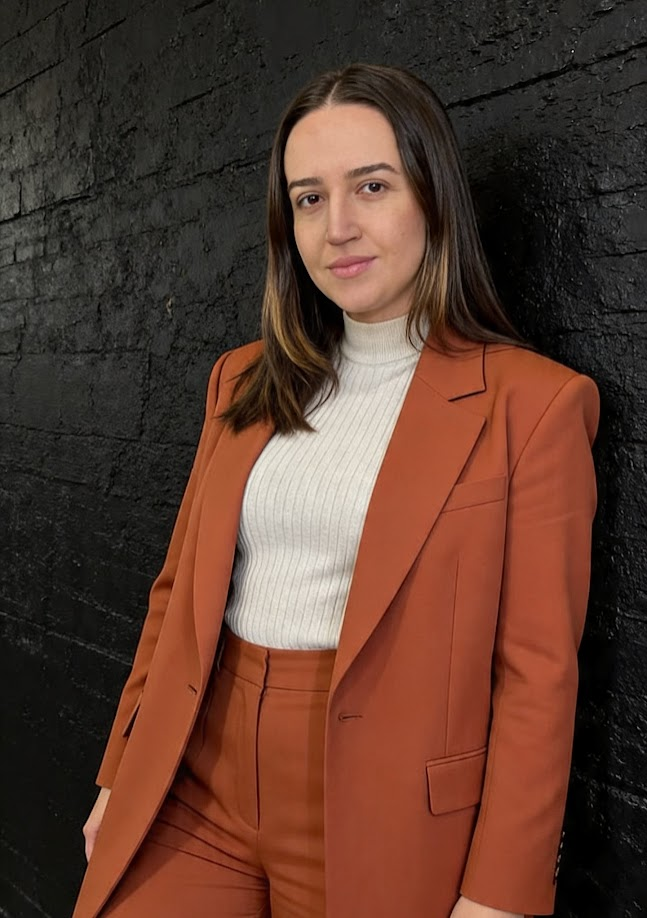
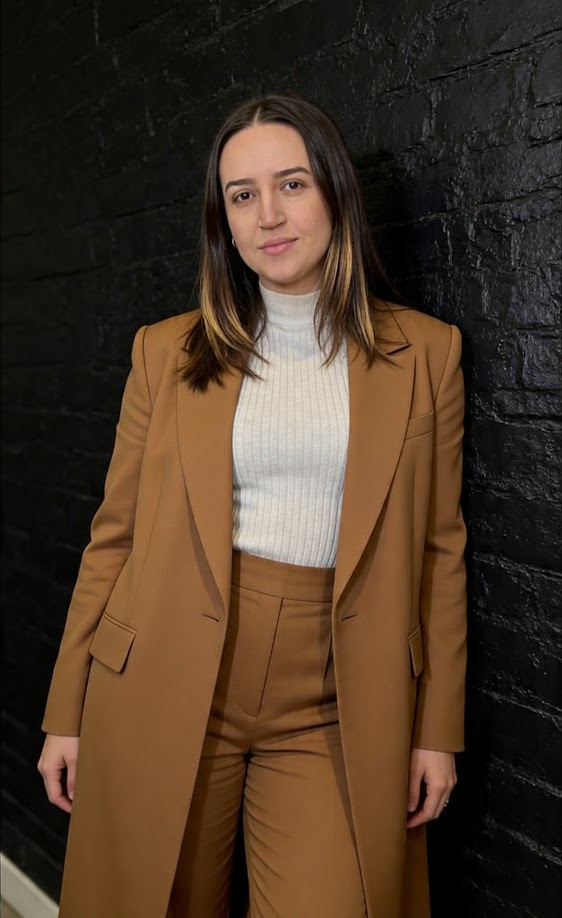
remove link to "Início" from multiple pages and update image styles in CSS

diff --git a/index.html b/index.html
@@ -1,38 +1,40 @@
 <!DOCTYPE html>
 <html lang="pt-br">
+
 <head>
-  <meta charset="UTF-8">
-  <meta name="viewport" content="width=device-width, initial-scale=1.0">
+    <meta charset="UTF-8">
+    <meta name="viewport" content="width=device-width, initial-scale=1.0">
 
-  <link rel="stylesheet" href="css/estilos.css">
+    <link rel="stylesheet" href="css/estilos.css">
 
-  <link rel="preconnect" href="https://fonts.gstatic.com" crossorigin>
-  <link href="https://fonts.googleapis.com/css2?family=Montserrat:wght@300;400;500;600;700&display=swap" rel="stylesheet">
+    <link rel="preconnect" href="https://fonts.gstatic.com" crossorigin>
+    <link href="https://fonts.googleapis.com/css2?family=Montserrat:wght@300;400;500;600;700&display=swap"
+        rel="stylesheet">
 
-  <title>Portfólio - Katheriny Kamili</title>
+    <title>Portfólio - Katheriny Kamili</title>
 </head>
+
 <body>
 
-  <a class="link-pular" href="#conteudo">Pular para o conteúdo</a>
+    <a class="link-pular" href="#conteudo">Pular para o conteúdo</a>
 
-  <!-- CABEÇALHO -->
-  <header>
-    <div class="container">
-      <nav>
+    <!-- CABEÇALHO -->
+    <header>
+        <div class="container">
+            <nav>
 
-        <a class="logo" href="index.html">
-          <span class="logo-letra">K</span>
-          <span class="logo-nome">Katheriny Kamili</span>
-        </a>
+                <a class="logo" href="index.html">
+                    <span class="logo-letra">K</span>
+                    <span class="logo-nome">Katheriny Kamili</span>
+                </a>
 
-        <a href="index.html">Início</a>
-        <a href="sobremim.html">Sobre</a>
-        <a href="index.html#habilidades">Habilidades</a>
-        <a href="produtos.html">Projetos</a>
-        <a href="contato.html" class="link-ativo">Contato</a>
-      </nav>
-    </div>
-  </header>
+                <a href="sobremim.html">Sobre</a>
+                <a href="index.html#habilidades">Habilidades</a>
+                <a href="produtos.html">Projetos</a>
+                <a href="contato.html" class="link-ativo">Contato</a>
+            </nav>
+        </div>
+    </header>
 
     <!-- CONTEÚDO PRINCIPAL -->
     <main id="conteudo">
@@ -41,68 +43,68 @@
         <section class="secao-destaque" id="inicio">
             <div class="container">
 
-                    <div class="destaque-texto">
-                        <span class="etiqueta">Portifólio profissional</span>
-                        <h1>Desenvolvedora Front-End</h1>
-                        <p class="descricao-principal">
-                            Olá, eu sou <strong>Katheriny Kamili</strong>. Estou em
-                            constante evolução na área de tecnologia, com foco em HTML,
-                            CSS e JavaScript, buscando oportunidades para crescer e
-                            contribuir com projetos criativos e bem estruturados.</p>
+                <div class="destaque-texto">
+                    <span class="etiqueta">Portifólio profissional</span>
+                    <h1>Desenvolvedora Front-End</h1>
+                    <p class="descricao-principal">
+                        Olá, eu sou <strong>Katheriny Kamili</strong>. Estou em
+                        constante evolução na área de tecnologia, com foco em HTML,
+                        CSS e JavaScript, buscando oportunidades para crescer e
+                        contribuir com projetos criativos e bem estruturados.</p>
 
 
-                        <!-- REDES SOCIAIS -->
+                    <!-- REDES SOCIAIS -->
 
-                        <div class="grupo-botoes">
-                            <a href="#projetos" class="botao botao-principal">Ver Projetos</a>
-                            <a href="https://github.com/katherinykamili" target="_blank" rel="noopener"
-                                class="botao botao-contorno">GitHub</a>
-                            <a href="https://www.linkedin.com/in/katheriny-kamili-corr%C3%AAa-rocha-4a4639176/"
-                                target="_blank" rel="noopener" class="botao botao-contorno">LinkedIn</a>
+                    <div class="grupo-botoes">
+                        <a href="produtos.html" class="botao botao-principal">Ver Projetos</a>
+                        <a href="https://github.com/katherinykamili" target="_blank" rel="noopener"
+                            class="botao botao-contorno">GitHub</a>
+                        <a href="https://www.linkedin.com/in/katheriny-kamili-corr%C3%AAa-rocha-4a4639176/"
+                            target="_blank" rel="noopener" class="botao botao-contorno">LinkedIn</a>
+                    </div>
+
+                    <div class="destaques-rapidos">
+                        <div class="cartao-destaque-rapido">
+                            <h3>Foco atual</h3>
+                            <p>HTML, CSS e JavaScript</p>
                         </div>
-
-                        <div class="destaques-rapidos">
-                            <div class="cartao-destaque-rapido">
-                                <h3>Foco atual</h3>
-                                <p>HTML, CSS e JavaScript</p>
-                            </div>
-                            <div class="cartao-destaque-rapido">
-                                <h3>Front-end</h3>
-                                <p>Em formação</p>
-                            </div>
-                            <div class="cartao-destaque-rapido">
-                                <h3>Blumenau, SC</h3>
-                                <p>Brasil</p>
-                            </div>
+                        <div class="cartao-destaque-rapido">
+                            <h3>Front-end</h3>
+                            <p>Em formação</p>
                         </div>
-
-                        <!-- COLUNA DIREITA -->
-                        <div class="coluna-perfil">
-                            <div class="cartao-perfil">
-                                <span class="selo-disponivel">Disponível para oportunidades</span>
-
-                                <div class="foto-perfil">
-                                    <div class="circulo-foto">
-                                        <span>KK</span>
-                                    </div>
-                                </div>
-
-                                <h2>Katheriny Kamili</h2>
-                                <p class="resumo-perfil">
-                                    Portfólio enfase em evolução, criatividade, organização visual e projetos
-                                    bemestruturador, desenvolvidos para fortalecer minha jornada na tecnologia.
-                                </p>
-
-                                <ul class="lista-perfil">
-                                    <li>Projetos com HTML e CSS</li>
-                                    <li>Desenvolvimento em JavaScript</li>
-                                    <li>Entendimento de APIs</li>
-                                </ul>
-                            </div>
+                        <div class="cartao-destaque-rapido">
+                            <h3>Blumenau, SC</h3>
+                            <p>Brasil</p>
                         </div>
                     </div>
 
+                    <!-- COLUNA DIREITA -->
+                    <div class="coluna-perfil">
+                        <div class="cartao-perfil">
+                            <span class="selo-disponivel">Disponível para oportunidades</span>
+
+                            <div class="foto-perfil">
+                                <div class="circulo-foto">
+                                    <img src="img/perfil.jpg" alt="Foto de perfil de Katheriny Kamili" loading="lazy">
+                                </div>
+                            </div>
+
+                            <h2>Katheriny Kamili</h2>
+                            <p class="resumo-perfil">
+                                Portfólio enfase em evolução, criatividade, organização visual e projetos
+                                bemestruturador, desenvolvidos para fortalecer minha jornada na tecnologia.
+                            </p>
+
+                            <ul class="lista-perfil">
+                                <li>Projetos com HTML e CSS</li>
+                                <li>Desenvolvimento em JavaScript</li>
+                                <li>Entendimento de APIs</li>
+                            </ul>
+                        </div>
+                    </div>
                 </div>
+
+            </div>
             </div>
         </section>
 

diff --git a/css/estilos.css b/css/estilos.css
@@ -408,10 +408,13 @@ section {
   font-weight: 700;
 }
 
-.foto-perfil {
+.foto-perfil img{
   display: flex;
   justify-content: center;
   margin: 10px 0;
+  width: 150px;
+  height: 150px;
+  border-radius: 50%;
 }
 
 .circulo-foto {
@@ -777,7 +780,7 @@ footer {
 }
 
 .mySlides {
-  border-radius: 12px;
+  border-radius: 15px;
   transition: transform .2s ease;
 }
 
@@ -786,7 +789,7 @@ footer {
 }
 
 .mySlides2 {
-  border-radius: 12px;
+  border-radius: 15px;
   transition: transform .2s ease;
 }
 
@@ -806,7 +809,7 @@ footer {
 
 .galeria figure {
   overflow: hidden;
-  border-radius: 3px;
+  border-radius: 15px;
   border: 1px solid #e2e8f0;
 }
 

diff --git a/sobremim.html b/sobremim.html
@@ -28,7 +28,6 @@
                     <span class="logo-nome">Katheriny Kamili</span>
                 </a>
 
-                <a href="index.html">Início</a>
                 <a href="sobremim.html">Sobre</a>
                 <a href="index.html#habilidades">Habilidades</a>
                 <a href="produtos.html">Projetos</a>

diff --git a/contato.html b/contato.html
@@ -25,7 +25,6 @@
           <span class="logo-nome">Katheriny Kamili</span>
         </a>
 
-        <a href="index.html">Início</a>
         <a href="sobremim.html">Sobre</a>
         <a href="index.html#habilidades">Habilidades</a>
         <a href="produtos.html">Projetos</a>

diff --git a/produtos.html b/produtos.html
@@ -25,7 +25,6 @@
           <span class="logo-nome">Katheriny Kamili</span>
         </a>
 
-        <a href="index.html">Início</a>
         <a href="sobremim.html">Sobre</a>
         <a href="index.html#habilidades">Habilidades</a>
         <a href="produtos.html">Projetos</a>
